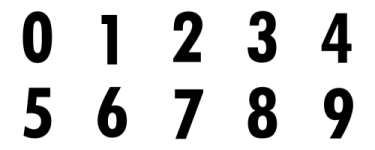
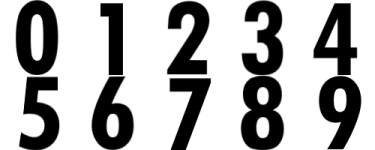
いらないものの削除

diff --git a/tgs_alone/Scene/GameMainScene.cpp b/tgs_alone/Scene/GameMainScene.cpp
@@ -28,16 +28,26 @@ GameMainScene::~GameMainScene()
 	delete theme;
 
 	// 音データの削除
-	DeleteSoundMem(sound[0]);
+	for (int i = 0; i < 5; i++)
+	{
+		DeleteSoundMem(sound[i]);
+	}
 
 	// 画像データの削除
-	DeleteGraph(ui_img);
+	for (int i = 0; i < 7; i++)
+	{
+		DeleteGraph(img[i]);
+	}
+
+	for (int i = 0; i < 10; i++)
+	{
+		DeleteGraph(combo_img[i]);
+	}
 }
 
 void GameMainScene::Initialize()
 {
 	// 画像の読み込み
-	//ui_img = LoadGraph("Resource/images/UI_botton.png");
 	img[3] = LoadGraph("Resource/images/count3.png");
 	img[2] = LoadGraph("Resource/images/count2.png");
 	img[1] = LoadGraph("Resource/images/count1.png");
@@ -45,10 +55,7 @@ void GameMainScene::Initialize()
 	img[4] = LoadGraph("Resource/images/main.png");
 	img[5] = LoadGraph("Resource/images/timeup.png");
 	img[6] = LoadGraph("Resource/images/perfect.png");
-
-	//LoadDivGraph("Resource/images/number.png", 10, 5, 2, 90, 90, combo_img);
-	LoadDivGraph("Resource/images/922.png", 10, 5, 2, 75, 75, combo_img);
-
+	LoadDivGraph("Resource/images/combo.png", 10, 5, 2, 90, 90, combo_img);
 
 	// サウンド読み込み
 	sound[0] = LoadSoundMem("Resource/sounds/maou_bgm_cyber44.ogg");
@@ -58,57 +65,28 @@ void GameMainScene::Initialize()
 	sound[4] = LoadSoundMem("Resource/sounds/stop.mp3");
 
 	// エラーチェック
-	/*if (ui_img == -1)
+	for (int i = 0; i < 7; i++)
 	{
-		throw("Resource/images/UI_botton.pngがありません\n");
-	}*/
-	if (img[0] == -1)
-	{
-		throw("Resource/images/start.pngがありません\n");
+		if (img[i] == -1)
+		{
+			throw("img[%d]がありません\n", i);
+		}
 	}
-	if (img[1] == -1)
+
+	for (int i = 0; i < 10; i++)
 	{
-		throw("Resource/images/count1.pngがありません\n");
+		if (combo_img[i] == -1)
+		{
+			throw("combo_img[%d]がありません\n", i);
+		}
 	}
-	if (img[2] == -1)
+	
+	for (int i = 0; i < 5; i++)
 	{
-		throw("Resource/images/count2.pngがありません\n");
-	}
-	if (img[3] == -1)
-	{
-		throw("Resource/images/count3.pngがありません\n");
-	}
-	if (img[4] == -1)
-	{
-		throw("Resource/images/main.pngがありません\n");
-	}
-	if (img[5] == -1)
-	{
-		throw("Resource/images/timeup.pngがありません\n");
-	}
-	if (img[6] == -1)
-	{
-		throw("Resource/images/perfect.pngがありません\n");
-	}
-	if (sound[0] == -1)
-	{
-		throw("Resource/sounds/maou_bgm_cyber44.oggがありません\n");
-	}
-	if (sound[1] == -1)
-	{
-		throw("Resource/sounds/countdown.mp3がありません\n");
-	}
-	if (sound[2] == -1)
-	{
-		throw("Resource/sounds/start.mp3がありません\n");
-	}
-	if (sound[3] == -1)
-	{
-		throw("Resource/sounds/game_end.mp3がありません\n");
-	}
-	if (sound[4] == -1)
-	{
-		throw("Resource/sounds/game_end_voice.mp3がありません\n");
+		if (sound[i] == -1)
+		{
+			throw("sound[%d]がありません\n", i);
+		}
 	}
 
 	// 開始のカウントダウン初期化
@@ -127,6 +105,7 @@ void GameMainScene::Initialize()
 	// BGMの音量設定
 	ChangeVolumeSoundMem(100, sound[0]);
 
+	// コンボ初期化
 	combo = 0;
 }
 
@@ -243,18 +222,11 @@ void GameMainScene::Draw() const
 #endif // _DEBUG
 
 	// 背景描画
-	//DrawBox(0, 0, 1280, 720, 0xf5f5f5, TRUE);
 	DrawGraph(0, 0, img[4], TRUE);
 	
 	if (begin_time == -1)
 	{
-		// ボタンの位置(UI)描画
-		//DrawGraph(1100, 20, ui_img, TRUE);
-
 		// コンボ数表示
-		//SetFontSize(50);
-		//DrawFormatString(250, 73,0x000000,"%d",combo);
-
 		if (combo < 10)
 		{
 			DrawGraph(145, 105, combo_img[0], TRUE);
@@ -265,7 +237,6 @@ void GameMainScene::Draw() const
 			DrawGraph(145, 105, combo_img[combo / 10], TRUE);
 			DrawGraph(204, 105, combo_img[combo % 10], TRUE);
 		}
-
 
 		// 制限時間の描画
 		time->Draw();
@@ -279,18 +250,12 @@ void GameMainScene::Draw() const
 	else if (begin_time == 0)
 	{
 		// ゲーム開始の描画
-		//SetFontSize(60);
-		//DrawString(550, 200, "START", 0x000000);
-
 		DrawGraph(0, 0, img[0], TRUE);
 
 	}
 	else
 	{
 		// ゲーム開始までのカウントダウン描画
-		//SetFontSize(60);
-		//DrawFormatString(600, 200, 0x000000, "%d", begin_time);
-
 		DrawGraph(0, 0, img[begin_time], TRUE);
 	
 	}
@@ -316,9 +281,6 @@ void GameMainScene::Draw() const
 		}
 		else
 		{// 制限時間が0になったら
-			//SetFontSize(100);
-			//DrawString(470, 200, "TIME UP!", 0x000000);
-
 			SetDrawBlendMode(DX_BLENDMODE_ALPHA, 200);
 			DrawBox(0, 0, 1280, 720, 0xffffff, TRUE);
 			SetDrawBlendMode(DX_BLENDMODE_NOBLEND, 0);
@@ -331,8 +293,6 @@ void GameMainScene::Draw() const
 			{
 				DrawGraph(30, -50, img[5], TRUE);
 			}
-			
-			//DrawFormatString(0, 0, 0x000000, "%d", timeup_cnt);
 		}
 	}
 	

diff --git a/tgs_alone/Object/Player.cpp b/tgs_alone/Object/Player.cpp
@@ -25,8 +25,11 @@ Player::Player() :input_flg(false),theme_num(0), mistake_cnt(0)//,effect(0)
 Player::~Player()
 {
 	//DeleteEffekseerEffect(effect);
+	// 音データの削除
 	DeleteSoundMem(sound[0]);
 	DeleteSoundMem(sound[1]);
+
+	// 画像データの削除
 	for (int i = 0; i < 5; i++)
 	{
 		DeleteGraph(img[i]);
@@ -47,26 +50,14 @@ void Player::Initialize()
 	sound[1] = LoadSoundMem("Resource/sounds/mis.mp3");
 
 	// エラーチェック
-	if (img[0] == -1)
+	for (int i = 0; i < 5; i++)
 	{
-		throw("Resource/images/Abotton.pngがありません\n");
+		if (img[i] == -1)
+		{
+			throw("img[%d]がありません\n", i);
+		}
 	}
-	if (img[1] == -1)
-	{
-		throw("Resource/images/Bbotton.pngがありません\n");
-	}
-	if (img[2] == -1)
-	{
-		throw("Resource/images/Ybotton.pngがありません\n");
-	}
-	if (img[3] == -1)
-	{
-		throw("Resource/images/Xbotton.pngがありません\n");
-	}
-	if (img[4] == -1)
-	{
-		throw("Resource/images/mistake.pngがありません\n");
-	}
+
 	if (sound[0] == -1)
 	{
 		throw("Resource/sounds/Button.mp3がありません\n");
@@ -83,8 +74,8 @@ void Player::Initialize()
 		input_draw[i] = -1;
 	}
 
+	// 変数の初期化
 	input_flg = false;
-
 	theme_num = 0;
 
 	// Zバッファを有効にする。

diff --git a/tgs_alone/Object/Theme.cpp b/tgs_alone/Object/Theme.cpp
@@ -28,37 +28,28 @@ void Theme::Initialize()
 	img[1] = LoadGraph("Resource/images/Bbotton.png");
 	img[2] = LoadGraph("Resource/images/Ybotton.png");
 	img[3] = LoadGraph("Resource/images/Xbotton.png");
-
 	LoadDivGraph("Resource/images/level.png", 10, 5, 2, 50, 50, level_img);
 
 	// サウンド読み込み
 	sound = LoadSoundMem("Resource/sounds/theme.mp3");
 
 	// エラーチェック
-	if (img[0] == -1)
+	for (int i = 0; i < 4; i++)
 	{
-		throw("Resource/images/Abotton.pngがありません\n");
+		if (img[i] == -1)
+		{
+			throw("img[%d]がありません\n", i);
+		}
 	}
-	if (img[1] == -1)
-	{
-		throw("Resource/images/Bbotton.pngがありません\n");
-	}
-	if (img[2] == -1)
-	{
-		throw("Resource/images/Ybotton.pngがありません\n");
-	}
-	if (img[3] == -1)
-	{
-		throw("Resource/images/Xbotton.pngがありません\n");
-	}
+
 	if (sound == -1)
 	{
 		throw("Resource/sounds/Theme.mp3がありません\n");
 	}
 
+	// 変数の初期化
 	theme_flg = true;
-
-	theme_num = 20;
+	theme_num = 3;
 }
 
 void Theme::Update()

diff --git a/tgs_alone/Object/Time.cpp b/tgs_alone/Object/Time.cpp
@@ -13,19 +13,23 @@ Time::Time() :time(0),time_flg(false), time2(0)
 
 Time::~Time()
 {
+	// 画像データの削除
+	for (int i = 0; i < 11; i++)
+	{
+		DeleteGraph(img_b[i]);
+		DeleteGraph(img_r[i]);
+	}
 }
 
 void Time::Initialize()
 {
 	// 画像データの読み込み
-	//LoadDivGraph("Resource/images/numberb.png", 10, 5, 2, 75, 75, img_b);
-	LoadDivGraph("Resource/images/92.png", 10, 5, 2, 75, 75, img_b);
+	LoadDivGraph("Resource/images/numberb.png", 10, 5, 2, 75, 75, img_b);
 	img_b[10] = LoadGraph("Resource/images/period.png");
-	//LoadDivGraph("Resource/images/numberr.png", 10, 5, 2, 75, 75, img_r);
-	LoadDivGraph("Resource/images/9.png", 10, 5, 2, 75, 75, img_r);
+	LoadDivGraph("Resource/images/numberr.png", 10, 5, 2, 75, 75, img_r);
 	img_r[10] = LoadGraph("Resource/images/periodr.png");
 
-
+	// エラーチェック
 	for (int i = 0; i < 11; i++)
 	{
 		if (img_b[i] == -1)
